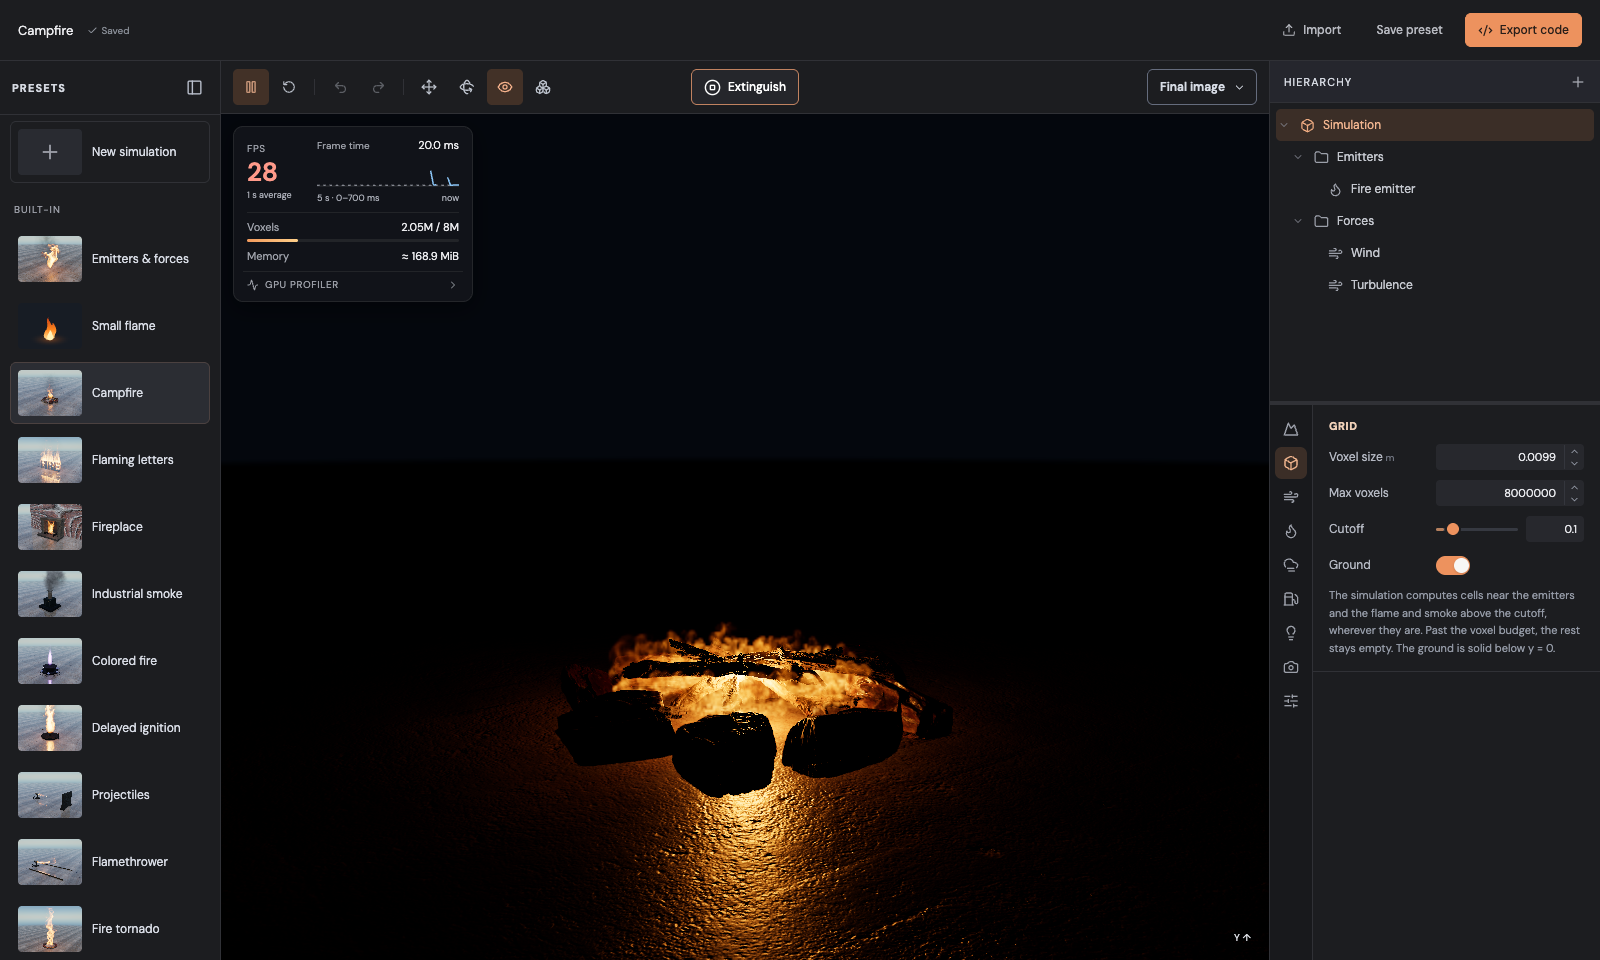
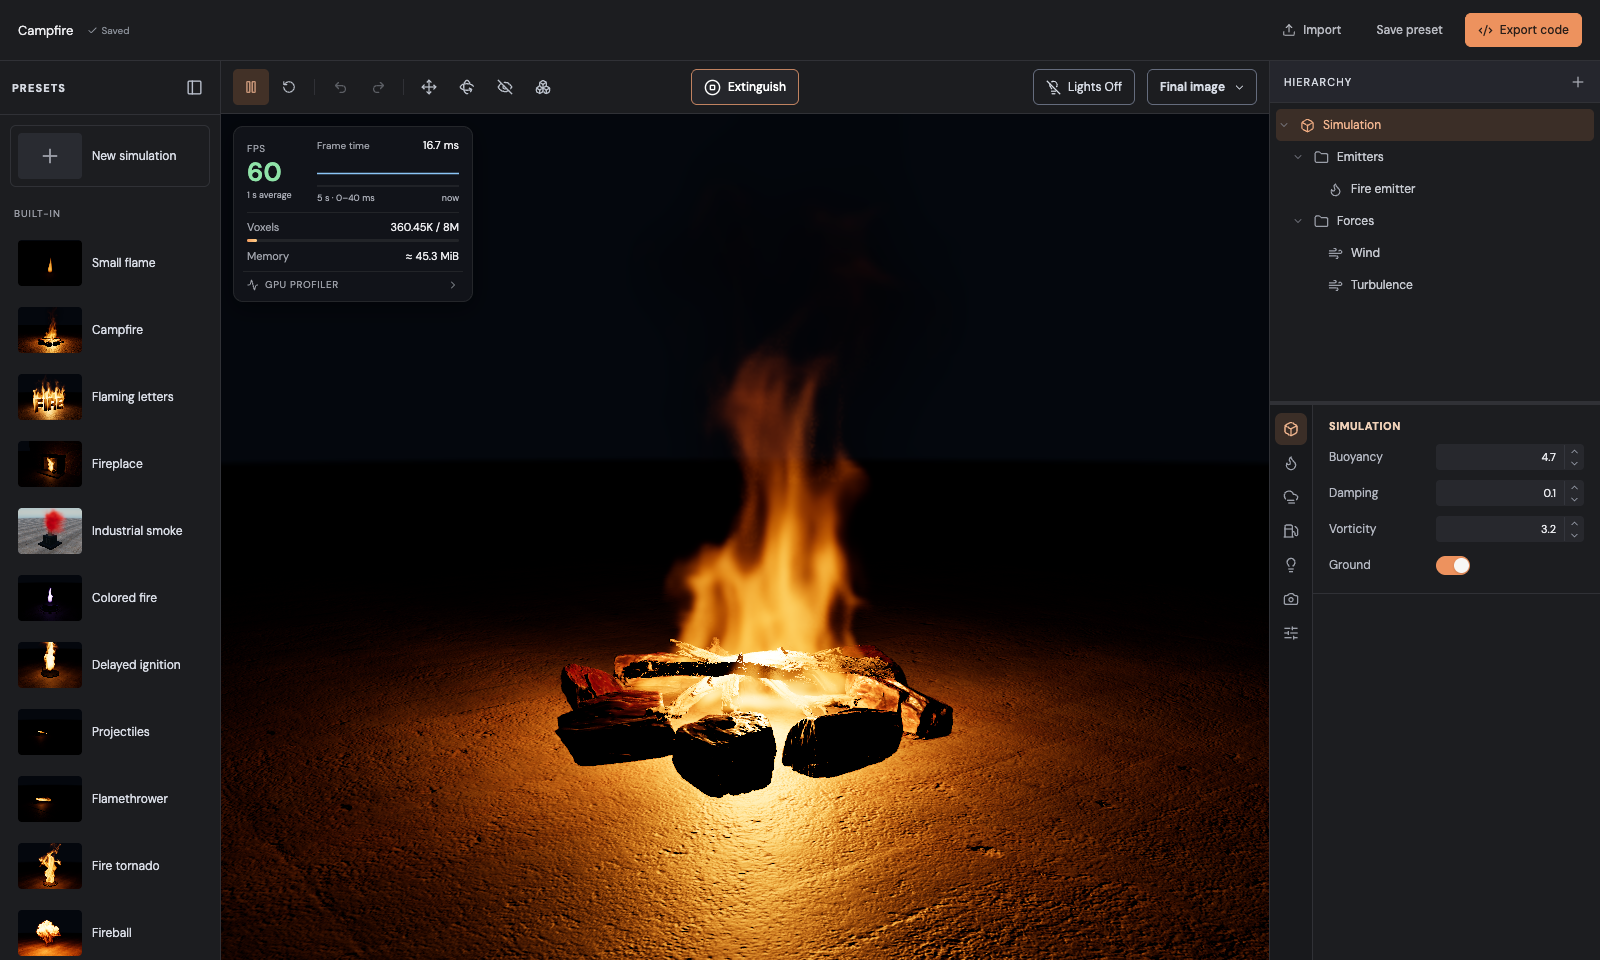
Show a campfire hero image and a running editor screenshot in the README

diff --git a/README.md b/README.md
@@ -4,7 +4,7 @@ Real-time volumetric fire, smoke and explosions for [Three.js](https://threejs.o
 and rendered on the GPU with WebGPU. Fire Pro has two parts: a library you can drop into any
 `WebGPURenderer` scene, and a visual editor for designing effects and exporting them.
 
-![Fire tornado in the Fire Pro editor](docs/images/hero.png)
+![A campfire simulated and rendered with Fire Pro](docs/images/hero.png)
 
 ## Contents
 
